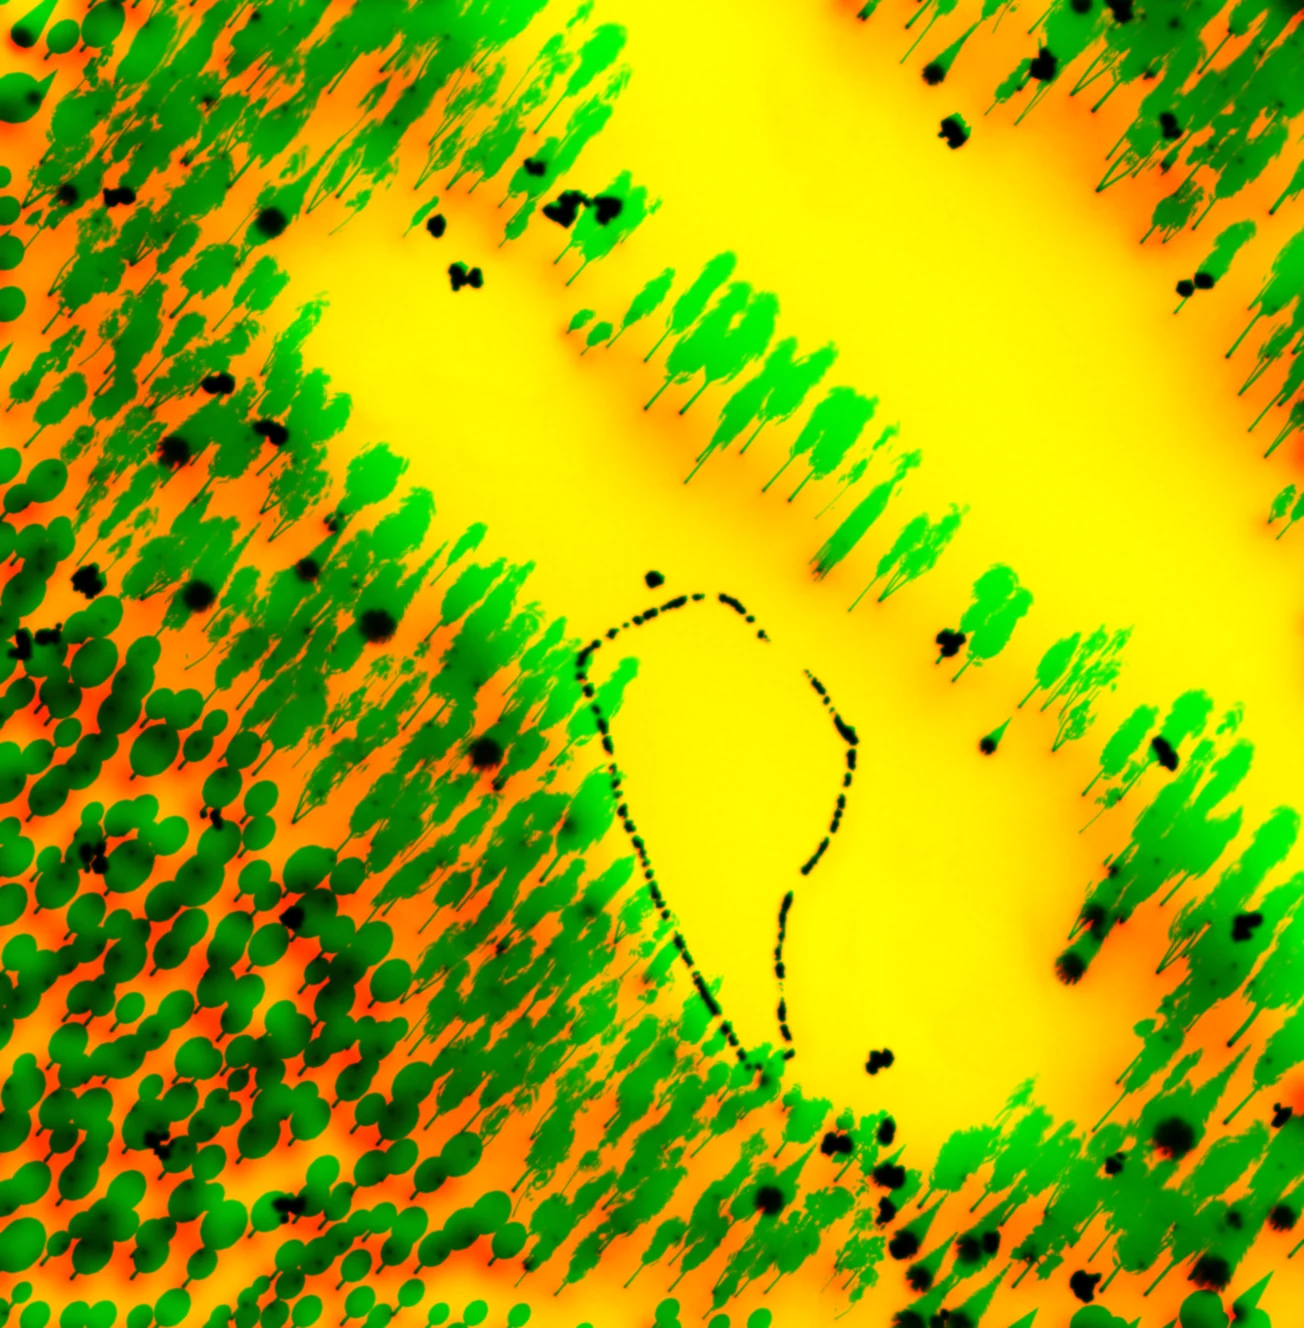
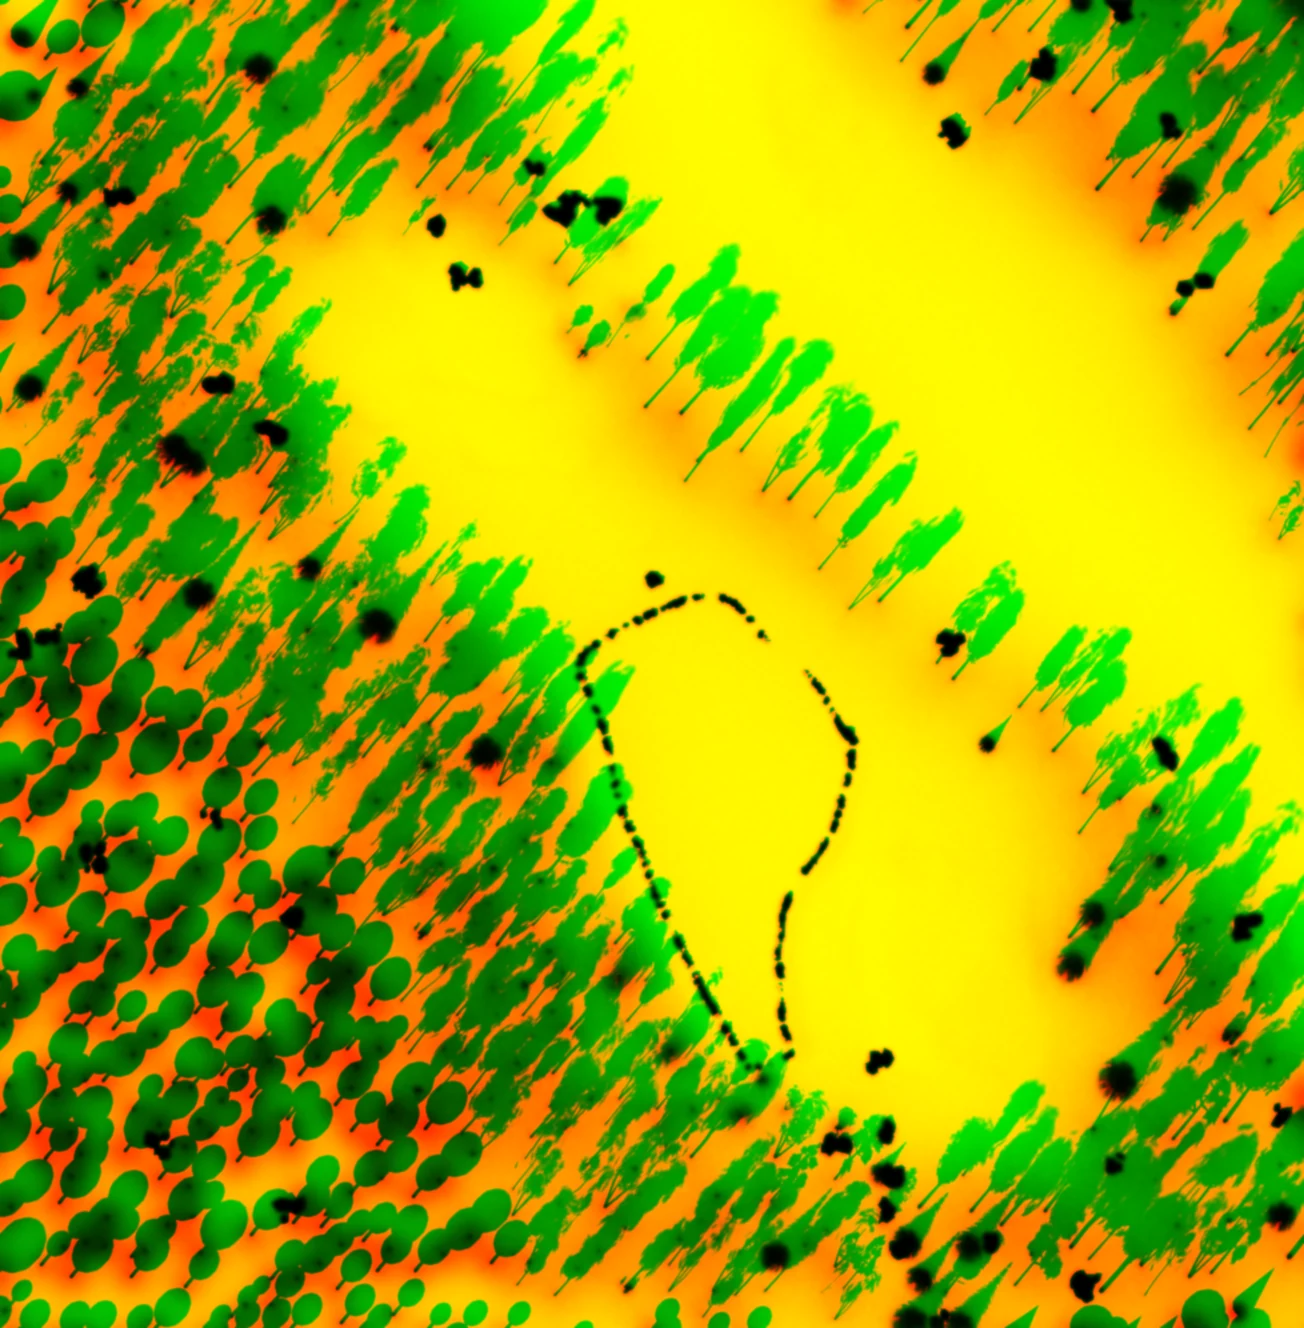
Blender light rebaked with the measured trees: wilderness

diff --git a/index.html b/index.html
@@ -2,7 +2,7 @@
 <html lang="en">
 <head>
 <meta charset="utf-8">
-<meta name="gg-build" content="ab60bf031f">
+<meta name="gg-build" content="05954ce971">
 <meta name="viewport" content="width=device-width,initial-scale=1,viewport-fit=cover">
 <meta name="apple-mobile-web-app-capable" content="yes">
 <meta name="mobile-web-app-capable" content="yes">
@@ -1082,7 +1082,7 @@ window.THREE={ACESFilmicToneMapping:et,AddEquation:y,AddOperation:J,AdditiveAnim
 <script src="data/COURSE_IMG.js?v=23a6e18ef6"></script>
 <!-- /data files -->
 <!-- game code: tools/datafiles.py (the game is in src/) -->
-<script>(function(){var P=["src/start.js?v=d8ceba60e2","src/clubs-and-surfaces.js?v=175a1b0163","src/hole-construction-from-the.js?v=2abe9d5bd9","src/terrain-height.js?v=a37f63fe87","src/terrain-texture.js?v=a3e96548c6","src/lighting-shared-by-every.js?v=cd5a62476a","src/realism.js?v=aa16e80b0d","src/surroundings.js?v=74bd8e969d","src/built-things.js?v=f98fc21593","src/sky-dome.js?v=1c137437ce","src/webgl-ground.js?v=5d371faab8","src/state.js?v=0620065d3e","src/sound.js?v=e6a171fee3","src/ui-helpers.js?v=101dacc8d1","src/flow.js?v=395fe450d7","src/save-file.js?v=73a0901dda","src/daily-round.js?v=d5116f0b32","src/a-golfer-s-daily.js?v=999de9775c","src/menu.js?v=58010d20df","src/pause-screen-and-feedback.js?v=b5ab620041","src/v107-help-and-faq.js?v=73740ead25","src/course-requests.js?v=1b264636bf","src/career.js?v=8c56e6444d","src/golfers.js?v=ac0e2525f8","src/match-state.js?v=7a407e7535","src/the-rival-s-shot.js?v=aedfc0dd26","src/career-screens.js?v=834dde70da","src/camera.js?v=72b4256890","src/3d-meshes.js?v=031d0e6eb9","src/divots.js?v=5d712295af","src/feel.js?v=cc5f67f75b","src/render.js?v=bbfcd83bef","src/choosing-a-golfer.js?v=59f6ffe37b","src/arm-ik.js?v=a254fdde50","src/real-tree-positions-from.js?v=0488c42a77","src/shader-patches-shared-by.js?v=1d67bace22","src/ground.js?v=95a21c663d","src/sky.js?v=cb305a137b","src/weather.js?v=1fc7d09e82","src/per-hole-scene-content.js?v=8522a6ceff","src/immediate-mode-primitives.js?v=0052447815","src/camera-straight-from-v.js?v=1bad554182","src/post-chain.js?v=d105739265","src/hud.js?v=49f3bf64c8","src/loop.js?v=25bd5af309","src/saved-shots.js?v=57bf3fbf0a","src/input.js?v=768869bb54","src/home-screen.js?v=124d004c02","src/sizing.js?v=67b1e861b4","src/boot.js?v=364c778f34"],t="",i,x;for(i=0;i<P.length;i++){x=new XMLHttpRequest();x.open("GET",P[i],false);x.send();if(x.status!==200&&x.status!==0)throw new Error("game code: could not load "+P[i]);t+=x.responseText;}var s=document.createElement("script");s.text="\n"+t+"//# sourceURL=game.js\n";document.currentScript.after(s);})();</script>
+<script>(function(){var P=["src/start.js?v=d8ceba60e2","src/clubs-and-surfaces.js?v=175a1b0163","src/hole-construction-from-the.js?v=2abe9d5bd9","src/terrain-height.js?v=a37f63fe87","src/terrain-texture.js?v=a3e96548c6","src/lighting-shared-by-every.js?v=cd5a62476a","src/realism.js?v=aa16e80b0d","src/surroundings.js?v=74bd8e969d","src/built-things.js?v=f98fc21593","src/sky-dome.js?v=1c137437ce","src/webgl-ground.js?v=5d371faab8","src/state.js?v=0620065d3e","src/sound.js?v=e6a171fee3","src/ui-helpers.js?v=101dacc8d1","src/flow.js?v=395fe450d7","src/save-file.js?v=73a0901dda","src/daily-round.js?v=ee1c3ca9ec","src/a-golfer-s-daily.js?v=999de9775c","src/menu.js?v=58010d20df","src/pause-screen-and-feedback.js?v=b5ab620041","src/v107-help-and-faq.js?v=73740ead25","src/course-requests.js?v=1b264636bf","src/career.js?v=8c56e6444d","src/golfers.js?v=ac0e2525f8","src/match-state.js?v=7a407e7535","src/the-rival-s-shot.js?v=aedfc0dd26","src/career-screens.js?v=834dde70da","src/camera.js?v=72b4256890","src/3d-meshes.js?v=031d0e6eb9","src/divots.js?v=5d712295af","src/feel.js?v=cc5f67f75b","src/render.js?v=bbfcd83bef","src/choosing-a-golfer.js?v=59f6ffe37b","src/arm-ik.js?v=a254fdde50","src/real-tree-positions-from.js?v=0488c42a77","src/shader-patches-shared-by.js?v=1d67bace22","src/ground.js?v=95a21c663d","src/sky.js?v=cb305a137b","src/weather.js?v=1fc7d09e82","src/per-hole-scene-content.js?v=8522a6ceff","src/immediate-mode-primitives.js?v=0052447815","src/camera-straight-from-v.js?v=1bad554182","src/post-chain.js?v=d105739265","src/hud.js?v=49f3bf64c8","src/loop.js?v=25bd5af309","src/saved-shots.js?v=57bf3fbf0a","src/input.js?v=768869bb54","src/home-screen.js?v=124d004c02","src/sizing.js?v=67b1e861b4","src/boot.js?v=364c778f34"],t="",i,x;for(i=0;i<P.length;i++){x=new XMLHttpRequest();x.open("GET",P[i],false);x.send();if(x.status!==200&&x.status!==0)throw new Error("game code: could not load "+P[i]);t+=x.responseText;}var s=document.createElement("script");s.text="\n"+t+"//# sourceURL=game.js\n";document.currentScript.after(s);})();</script>
 <!-- /game code -->
 
 <script>/* What's New. Add the newest update at the TOP of UPDATES; its id must be new each time. */

diff --git a/src/daily-round.js b/src/daily-round.js
@@ -79,7 +79,7 @@ function b10K(){const c=b10On()&&typeof B10BAKE!=='undefined'&&B10BAKE.courses?B
   if(c&&typeof tlOn==='function'&&tlOn()!==!!c.mt)return null;   // light baked with other trees than the ones standing (measured vs photo): live shadows instead
   return c&&c.holes?c.holes[G.hi]||null:null;}   // this hole's baked light (b: bounds, png)
 function b10Hole(){return !!b10K();}
-function b10Load(done){const L=['b10/bake.js?v=49','b10/trees.js?v=3'];window.B10LEAF='b10/leaves.webp?v=1';let n=L.length;for(const s of L){const e=document.createElement('script');e.src=s;e.onload=e.onerror=()=>{if(--n===0)done();};document.head.appendChild(e);}}
+function b10Load(done){const L=['b10/bake.js?v=50','b10/trees.js?v=3'];window.B10LEAF='b10/leaves.webp?v=1';let n=L.length;for(const s of L){const e=document.createElement('script');e.src=s;e.onload=e.onerror=()=>{if(--n===0)done();};document.head.appendChild(e);}}
 function b10Trees(P){const dec=(s,T)=>{const b=atob(s),u=new Uint8Array(b.length);for(let i=0;i<b.length;i++)u[i]=b.charCodeAt(i);return new T(u.buffer);};
   const arr=(r,st)=>{const Pp=dec(r.P,Int16Array),N=dec(r.N,Int8Array),C=dec(r.C,Uint8Array),U=r.U?dec(r.U,Int16Array):null,o=new Array(r.n*st);
     for(let i=0;i<r.n;i++){const k=i*st;o[k]=Pp[i*3]/1000;o[k+1]=Pp[i*3+1]/1000;o[k+2]=Pp[i*3+2]/1000;o[k+3]=N[i*3]/127;o[k+4]=N[i*3+1]/127;o[k+5]=N[i*3+2]/127;

diff --git a/sw.js b/sw.js
@@ -1,6 +1,6 @@
 /* Golf Go offline cache. The page is checked online first (so updates show straight away) and falls back to the copy on
    this phone; course data carries a version tag (?v=…) and is kept until it changes; leaderboards always go to the network. */
-const V='3a3ab5e792',B='ab60bf031f',CORE='core-'+V,ASSETS='assets';
+const V='6df6ca1f10',B='05954ce971',CORE='core-'+V,ASSETS='assets';
 const CORE_FILES=['./','index.html','manifest.webmanifest','icon-192.png','icon-512.png','apple-touch-icon.png'];
 const DATA=["greens.js?v=db85f90c53", "ground.js?v=4a589b8b73", "trees.js?v=a04a16619c", "char%20ch12.js?v=lg2", "char%20remy.js?v=lg2", "char%20ch01.js?v=lg2", "char_ch08.js?v=lg2", "char_ch42.js?v=lg2", "char_ch23.js?v=lg2", "char%20ch28.js?v=lg2", "char_mx_joe.js?v=lg2", "char_ch17.js?v=lg2", "char_mh_tyger.js?v=m4", "char_mh_jack.js?v=m4", "char_mh_arnie.js?v=m4", "char_mh_phil.js?v=m4", "char_mh_rory.js?v=m4", "char_mh_scotty.js?v=m4", "char_mh_seve.js?v=m4", "char_mh_barry.js?v=m4", "char_mh_hoagan.js?v=m4", "char_mh_payne.js?v=m4"];   // current versioned data files
 const PRE=[];   // publish build: the shared graphics files (a/ga_*.js?v=…), saved at install so even the first launch offline works
